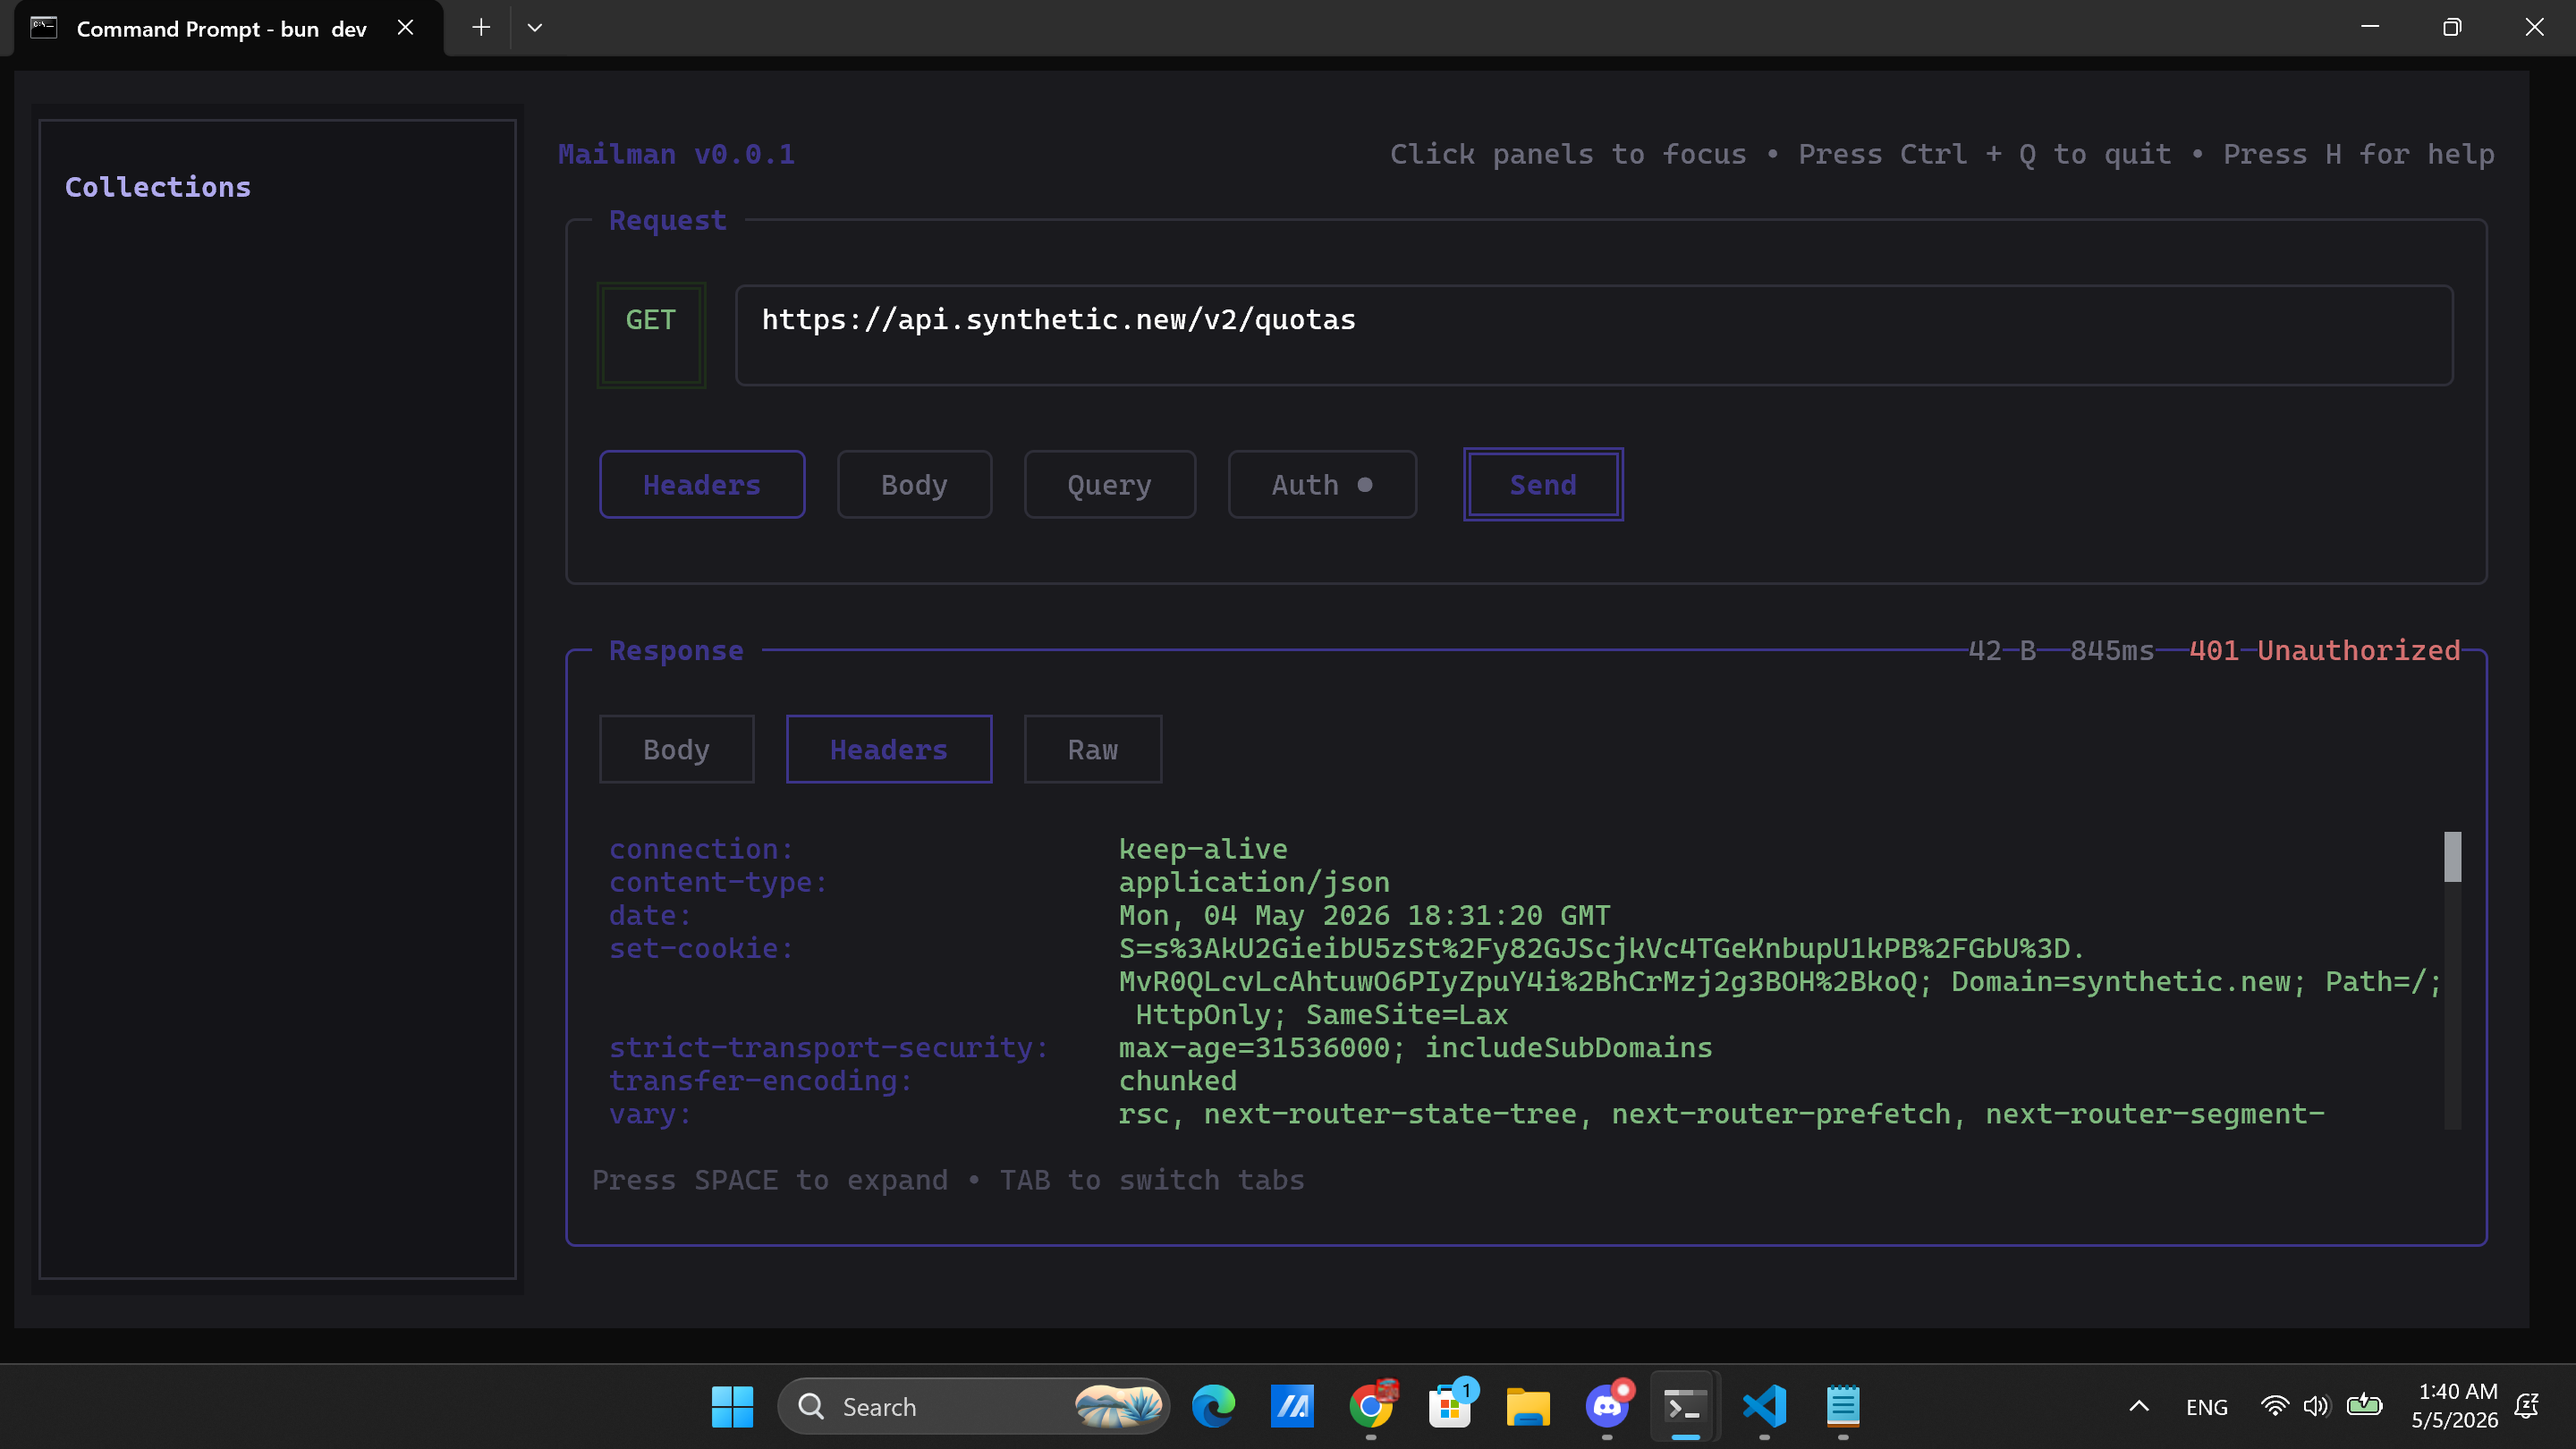
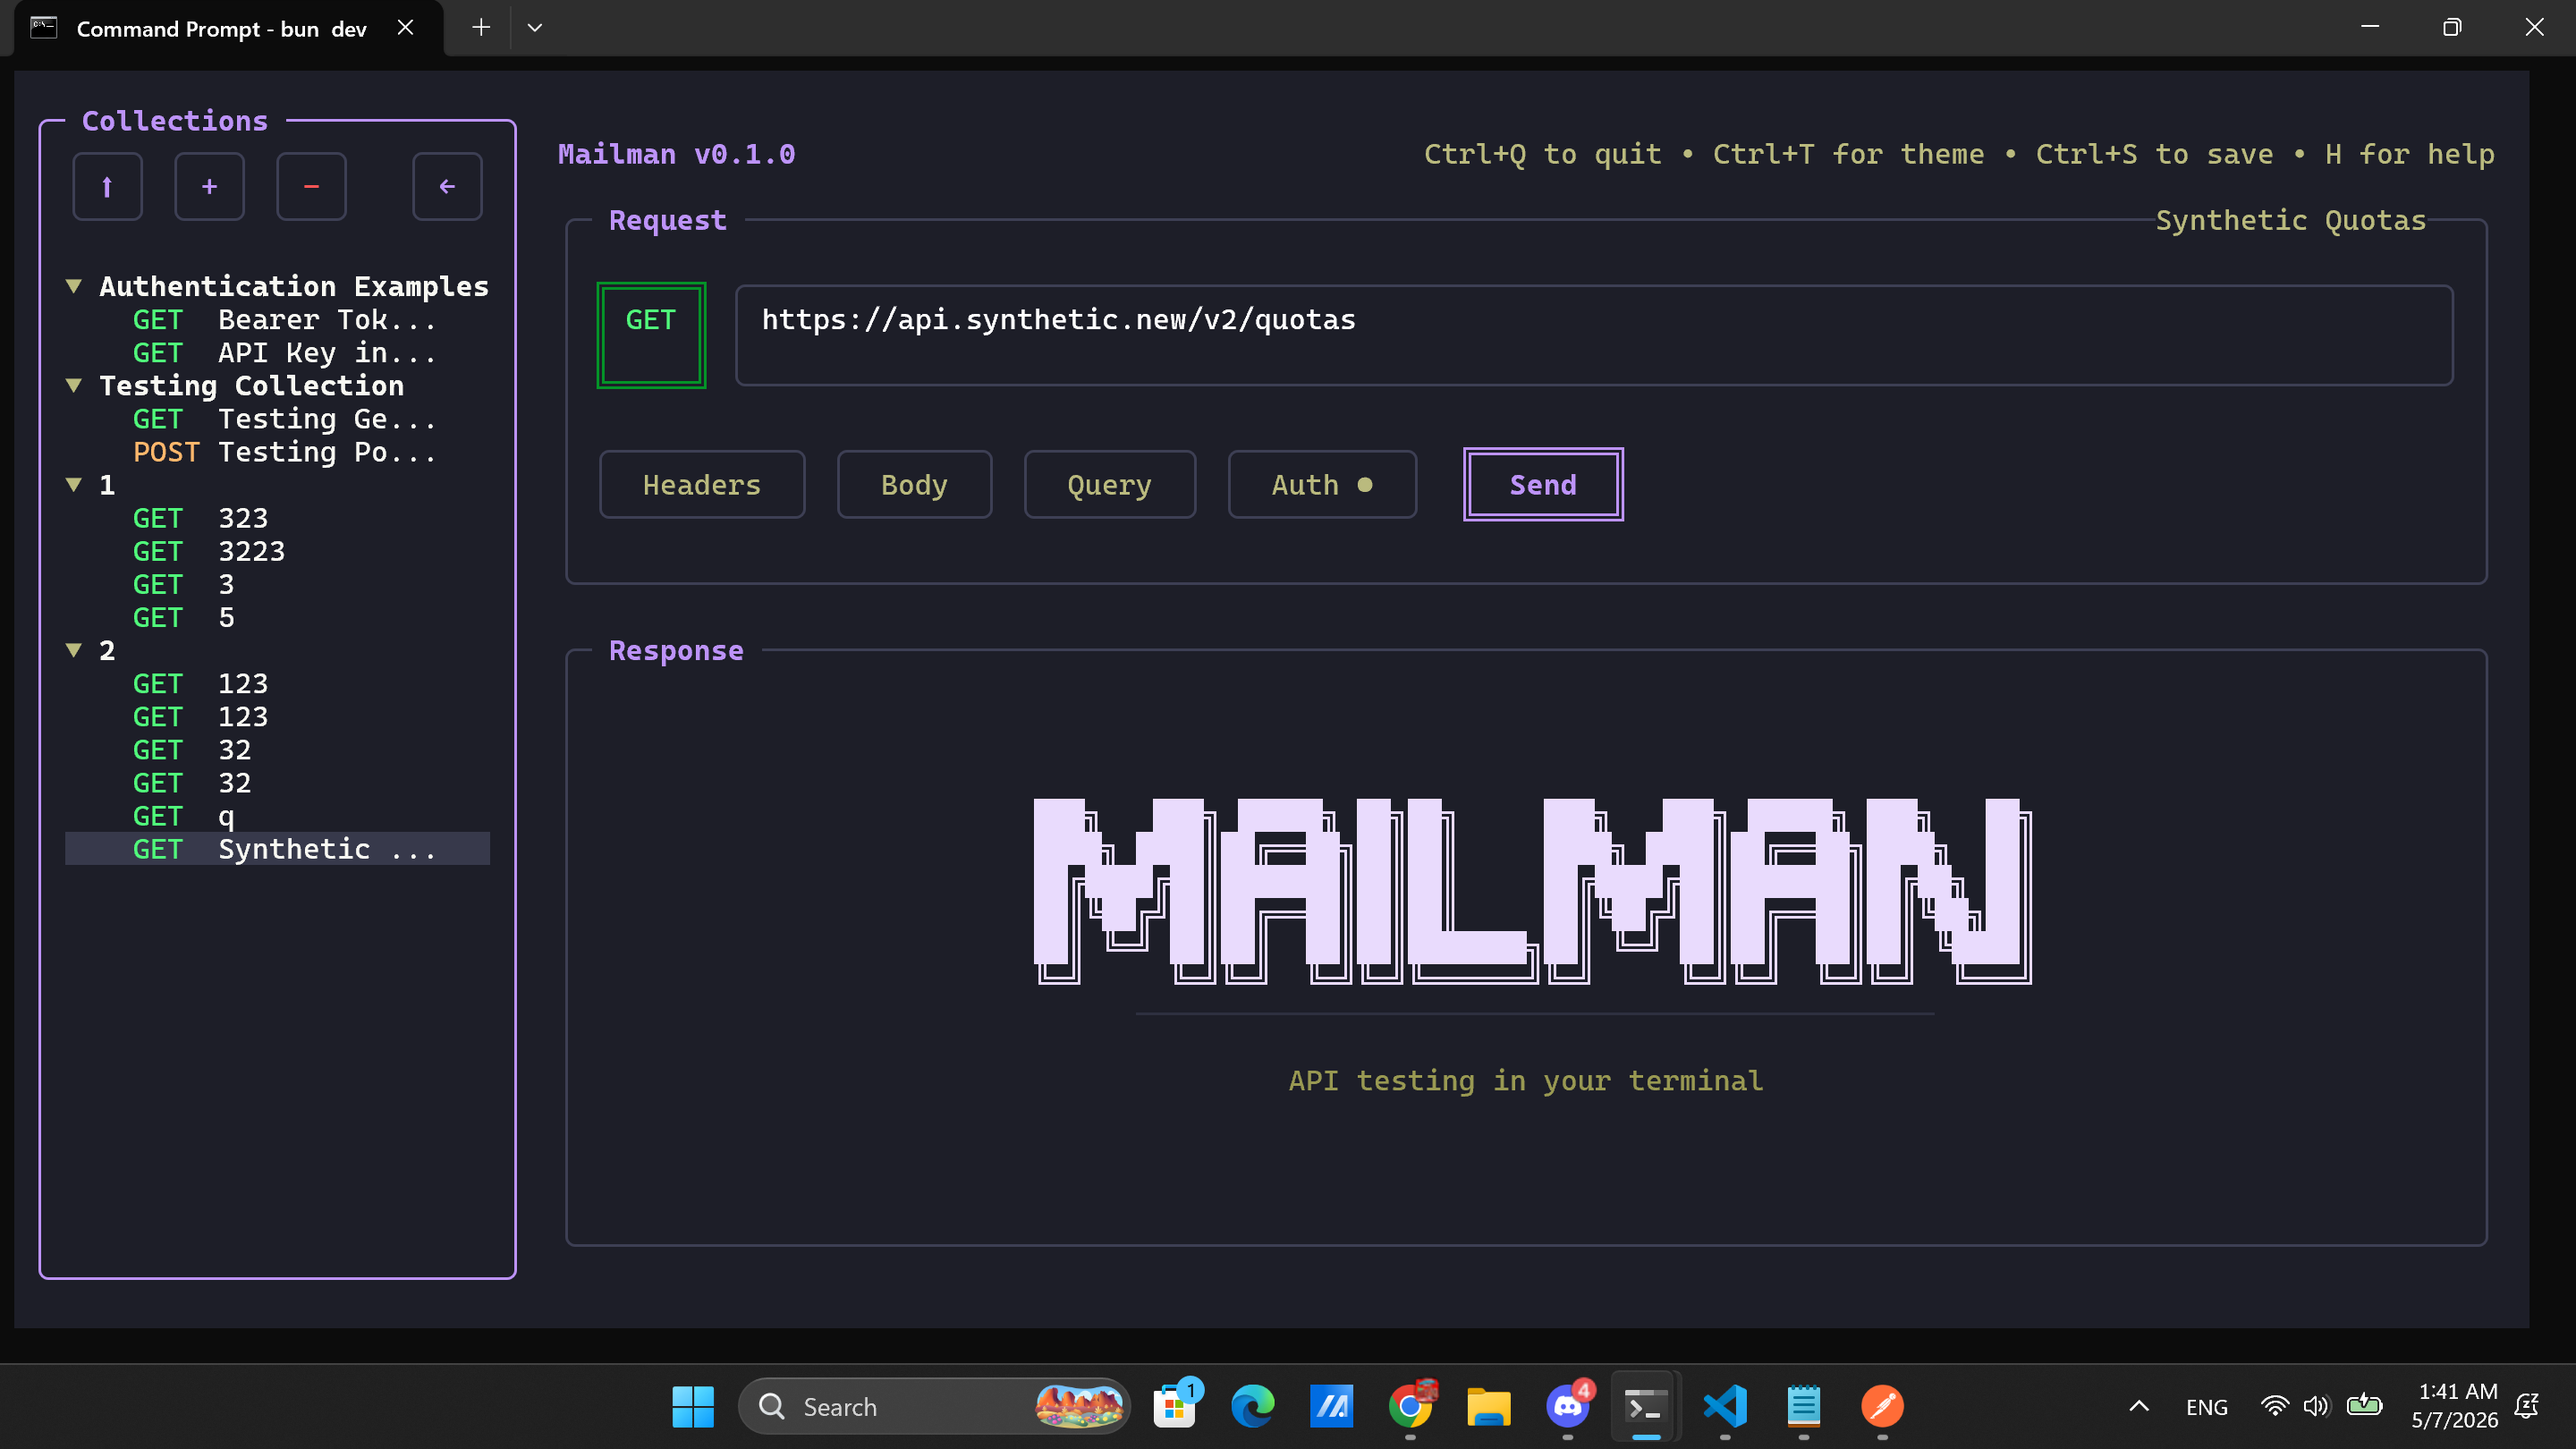
docs: prepare v0.1.0 for public release

diff --git a/src/App.tsx b/src/App.tsx
@@ -201,7 +201,7 @@ export function App() {
     });
     setRequestName(item.name);
     setActiveRequestId(item.id);
-    setActiveCollectionId(collectionId);   // Note: this keep the Ctrl+S save functionality working by ensuring the correct collection is active when a request is loaded, however, this can cause the conflict of display collection details in the WelcomePanel when a request is loaded from there. A more robust solution would be to separate the concept of "active collection" for display purposes and "current collection" for request loading/saving, but this is a simpler fix for now. It's working correctly as of now, but may need to be revisited if we add more features around collections that rely on activeCollectionId for display logic.
+    setActiveCollectionId(collectionId); // Note: this keep the Ctrl+S save functionality working by ensuring the correct collection is active when a request is loaded, however, this can cause the conflict of display collection details in the WelcomePanel when a request is loaded from there. A more robust solution would be to separate the concept of "active collection" for display purposes and "current collection" for request loading/saving, but this is a simpler fix for now. It's working correctly as of now, but may need to be revisited if we add more features around collections that rely on activeCollectionId for display logic.
   }, []);
 
   const handleSelectCollection = useCallback((id: string | null) => {
@@ -266,10 +266,10 @@ export function App() {
       >
         <box style={{ flexDirection: 'row', justifyContent: 'space-between', marginBottom: 1 }}>
           <text fg={colors.accent.primary}>
-            <strong>Mailman v0.0.1</strong>
+            <strong>Mailman v0.1.0</strong>
           </text>
           <text fg={colors.text.muted}>
-            Click panels to focus • Ctrl+Q to quit • Ctrl+T for theme • Ctrl+S to save • H for help
+            Ctrl+Q to quit • Ctrl+T for theme • Ctrl+S to save • H for help
           </text>
         </box>
 

diff --git a/README.md b/README.md
@@ -1,21 +1,28 @@
 # Mailman
 
-A terminal-based HTTP client built with Bun and OpenTUI.
+[![License: MIT](https://img.shields.io/badge/license-MIT-blue.svg)](LICENSE)
+[![Version](https://img.shields.io/badge/version-0.1.0-blue.svg)](https://github.com/anhtri04/mailman)
+[![TypeScript](https://img.shields.io/badge/TypeScript-Strict-3178C6.svg)](https://www.typescriptlang.org/)
+[![Bun](https://img.shields.io/badge/Runtime-Bun-000000?logo=bun)](https://bun.sh)
+
+A terminal-based HTTP client built with [Bun](https://bun.sh) and [OpenTUI](https://opentui.org).
 
 ![mailman.png](mailman.png)
 
 ## Features
 
-- **Interactive TUI**: Full terminal user interface with mouse and keyboard support
-- **HTTP Methods**: Support for GET, POST, PUT, DELETE, PATCH
-- **Request Components**:
+- **Interactive TUI** — Full terminal user interface with mouse and keyboard support
+- **HTTP Methods** — GET, POST, PUT, DELETE, PATCH
+- **Request Configuration**
   - Headers editor with common presets
   - Request body editor with content type selection
-  - Query parameter builder with URL preview
-  - **Authentication**: Bearer token and API key (header or query)
-- **Response Viewer**: Syntax-highlighted JSON, XML, HTML with raw view
-- **Method Badges**: Color-coded HTTP methods for easy identification
-- **Keyboard Shortcuts**: Efficient navigation without mouse
+  - Query parameter builder with live URL preview
+  - Authentication: Bearer token and API key (header or query)
+- **Response Viewer** — Syntax-highlighted JSON, XML, HTML with raw view
+- **Collections** — Organize requests into collections with full CRUD support
+- **Theme System** — 37 built-in themes with live preview (Ctrl+T)
+- **Keyboard Shortcuts** — Efficient navigation without leaving the keyboard
+- **Persistent Storage** — Collections and preferences saved to `~/.mailman/`
 
 ## Quick Start
 
@@ -23,143 +30,100 @@ A terminal-based HTTP client built with Bun and OpenTUI.
 # Install dependencies
 bun install
 
-# Run in development mode
+# Run the application
 bun dev
-
-# Or run directly
-bun start
 ```
 
 ## Usage
 
 ### Navigation
 
-- **Click** on panels to focus
-- **Tab** key to switch between response tabs
-- **Space** to expand response in full-screen modal
-- **Escape** to close modals
-
-### Keyboard Shortcuts
-
 | Key | Action |
 |-----|--------|
-| `Tab` | Switch response view (Body/Headers/Raw) |
-| `Space` | Expand response to full screen |
-| `Escape` | Close modal / Go back |
+| `Tab` | Switch response view (Body / Headers / Raw) |
+| `Space` | Expand response to full-screen modal |
+| `Escape` | Close modal / go back |
 | `Ctrl+Q` | Quit application |
+| `Ctrl+T` | Open theme selector |
+| `Ctrl+S` | Save current request to its collection |
 
 ### Request Panel
 
-1. **Method**: Click the method badge to cycle through HTTP methods
-2. **URL**: Type the request URL
-3. **Tabs**:
-   - **Headers**: Add/edit request headers with preset suggestions
-   - **Body**: Edit request body (shown for POST/PUT/PATCH)
-   - **Query**: Build query parameters with live URL preview
-   - **Auth**: Configure authentication (None, Bearer Token, or API Key)
+1. **Method** — Click the method badge to cycle through HTTP methods
+2. **URL** — Type the request URL
+3. **Tabs** — Click to open editors:
+   - **Headers** — Add/edit request headers with preset suggestions
+   - **Body** — Edit request body (shown for POST/PUT/PATCH)
+   - **Query** — Build query parameters with live URL preview
+   - **Auth** — Configure authentication (None, Bearer Token, or API Key)
 
-Each tab shows a ● indicator when it contains data.
+Each tab shows a `●` indicator when it contains data.
 
 ### Authentication
 
-Three authentication modes are supported:
+| Mode | Behavior |
+|------|----------|
+| **No Auth** | Send requests without authentication |
+| **Bearer Token** | Adds `Authorization: Bearer <token>` header |
+| **API Key (Header)** | Adds a custom header (e.g. `X-API-Key: <value>`) |
+| **API Key (Query)** | Appends to URL (e.g. `?api_key=<value>`) |
 
-1. **No Auth**: Send requests without authentication
-2. **Bearer Token**: Add `Authorization: Bearer <token>` header
-3. **API Key**: 
-   - Header: Add custom header (e.g., `X-API-Key: <value>`)
-   - Query: Append to URL (e.g., `?api_key=<value>`)
+### Collections
+
+- Click the **Import** button to create a new collection
+- Click a collection to select it, then click **Add** to create a request
+- Click a request to load it into the request panel
+- Click **Delete** to remove a collection or request
+- Press `Ctrl+S` to save changes to a loaded request
 
 ### Response Panel
 
-- **Status Code**: Color-coded (green=2xx, yellow=3xx, orange=4xx, red=5xx)
-- **Response Time**: Displayed in milliseconds
-- **Content Size**: Human-readable size (B, KB, MB)
-- **Tabs**:
-  - **Body**: Syntax-highlighted content (JSON, XML, HTML)
-  - **Headers**: Response headers list
-  - **Raw**: Plain text view
+- **Status Code** — Color-coded (green = 2xx, yellow = 3xx, orange = 4xx, red = 5xx)
+- **Response Time** — Displayed in milliseconds
+- **Content Size** — Human-readable size (B, KB, MB)
+- **Tabs** — Body (syntax-highlighted), Headers, Raw
 
 ## Development
 
 ```bash
-# Install dependencies
-bun install
-
-# Run in development mode
-bun dev
-
-# Format code
-bun run fmt
-
-# Check formatting
-bun run fmt:check
-
-# Lint code
-bun run lint
-
-# Run tests
-bun test
-
-# Run tests in watch mode
-bun test --watch
+bun install          # Install dependencies
+bun dev              # Run the application
+bun test             # Run all tests
+bun test --watch     # Run tests in watch mode
+bun test src/services/http-client.test.ts   # Run a single test file
+bun test -t "should make GET request"       # Run tests by name pattern
+bun run fmt          # Format code with oxfmt
+bun run fmt:check    # Check formatting without modifying
+bun run lint         # Lint with oxlint (includes type checking)
+bun run lint:fix     # Auto-fix linting issues
+bun run seed         # Load example collections into ~/.mailman/
 ```
 
 ## Architecture
 
-- **Runtime:** Bun
-- **UI Framework:** OpenTUI React reconciler
-- **Language:** TypeScript with strict mode
-- **Testing:** Bun test runner
-- **Formatting:** oxfmt
-- **Linting:** oxlint
+| Layer | Technology |
+|-------|-----------|
+| Runtime | [Bun](https://bun.sh) |
+| UI Framework | [OpenTUI](https://opentui.org) React reconciler |
+| Language | TypeScript (strict mode) |
+| Testing | Bun test runner |
+| Formatting | oxfmt |
+| Linting | oxlint |
 
 ## Project Structure
 
 ```
-mailman/
-├── src/                  # Source code
-│   ├── components/       # React components
-│   │   ├── App.tsx              # Main application component
-│   │   ├── RequestPanel.tsx     # Request configuration panel
-│   │   ├── ResponsePanel.tsx    # Response display panel
-│   │   ├── HeadersEditor.tsx    # Headers editor modal
-│   │   ├── BodyEditor.tsx       # Body editor modal
-│   │   ├── QueryParamsEditor.tsx # Query params builder
-│   │   ├── AuthEditor.tsx       # Authentication editor
-│   │   ├── HeadersDisplay.tsx   # Response headers display
-│   │   ├── SyntaxHighlighter.tsx # Code syntax highlighting
-│   │   └── Modal.tsx            # Reusable modal component
-│   ├── services/         # Business logic
-│   │   └── http-client.ts       # HTTP request handling
-│   ├── hooks/            # Custom React hooks
-│   │   └── useFocus.ts          # Focus management
-│   ├── theme/            # Theming
-│   │   └── colors.ts            # Color palette
-│   ├── types.ts          # TypeScript type definitions
-│   └── utils/            # Utility functions
-│       └── response-formatter.ts
-├── index.tsx             # Entry point
-├── package.json          # Dependencies and scripts
-├── tsconfig.json         # TypeScript configuration
-└── AGENTS.md             # Agent guidelines
+index.tsx                 # Entry point
+src/
+  App.tsx                 # Root component, keyboard bindings, modal routing
+  types.ts                # Shared type definitions
+  components/             # React UI components (PascalCase.tsx)
+  hooks/                  # Custom React hooks (camelCase.ts)
+  services/               # Business logic & IO (camelCase.ts)
+  theme/                  # Theme system — colors, types, ThemeProvider
+  utils/                  # Pure utility functions (camelCase.ts)
 ```
-
-## Color Theme
-
-Mailman uses a dark purple-accented theme:
-
-- **Backgrounds**: Deep dark grays (#1a1a1e, #141418, #111114)
-- **Accent**: Purple (#3C3489) for buttons and active elements
-- **Text**: Warm off-white (#c9c7be) with muted variants
-- **Method Badges**: Color-coded by HTTP method
-  - GET: Green (#7db87d)
-  - POST: Yellow (#c9a060)
-  - PUT: Blue (#6094c0)
-  - DELETE: Red (#d47070)
-  - PATCH: Purple (#8a7ed4)
-- **Status Codes**: Success/error colors matching syntax highlighting
 
 ## License
 
-MIT
+[MIT](LICENSE)
